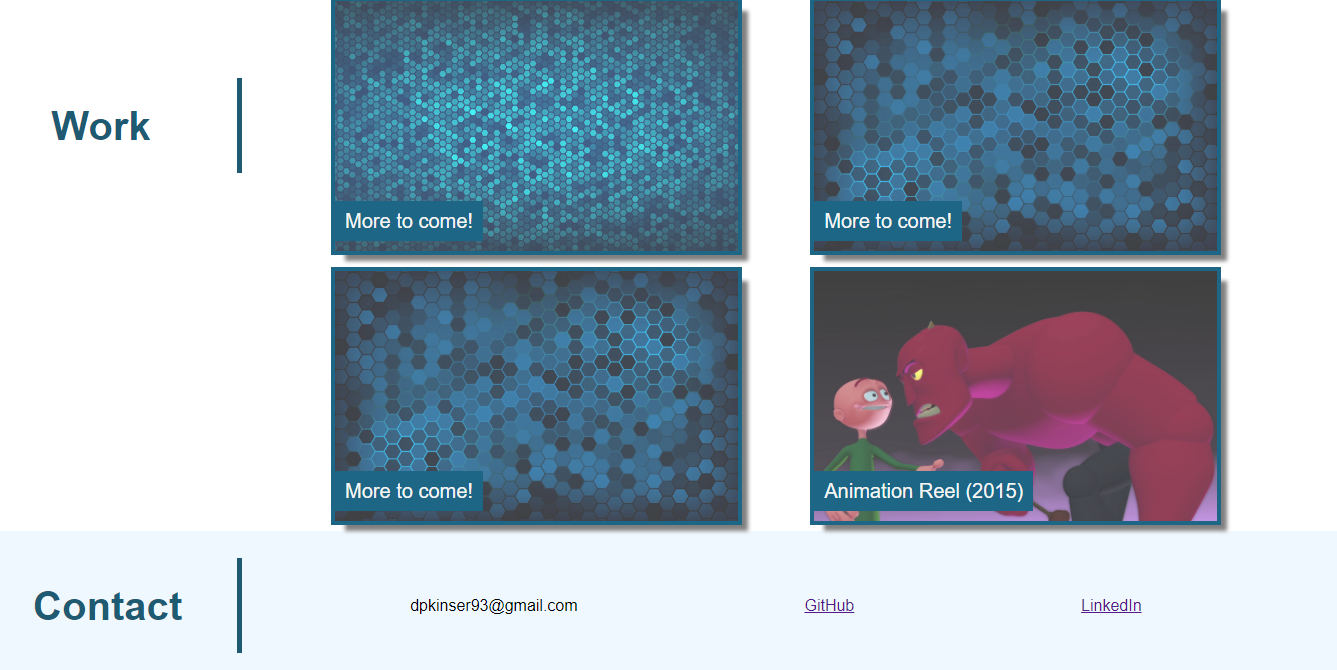
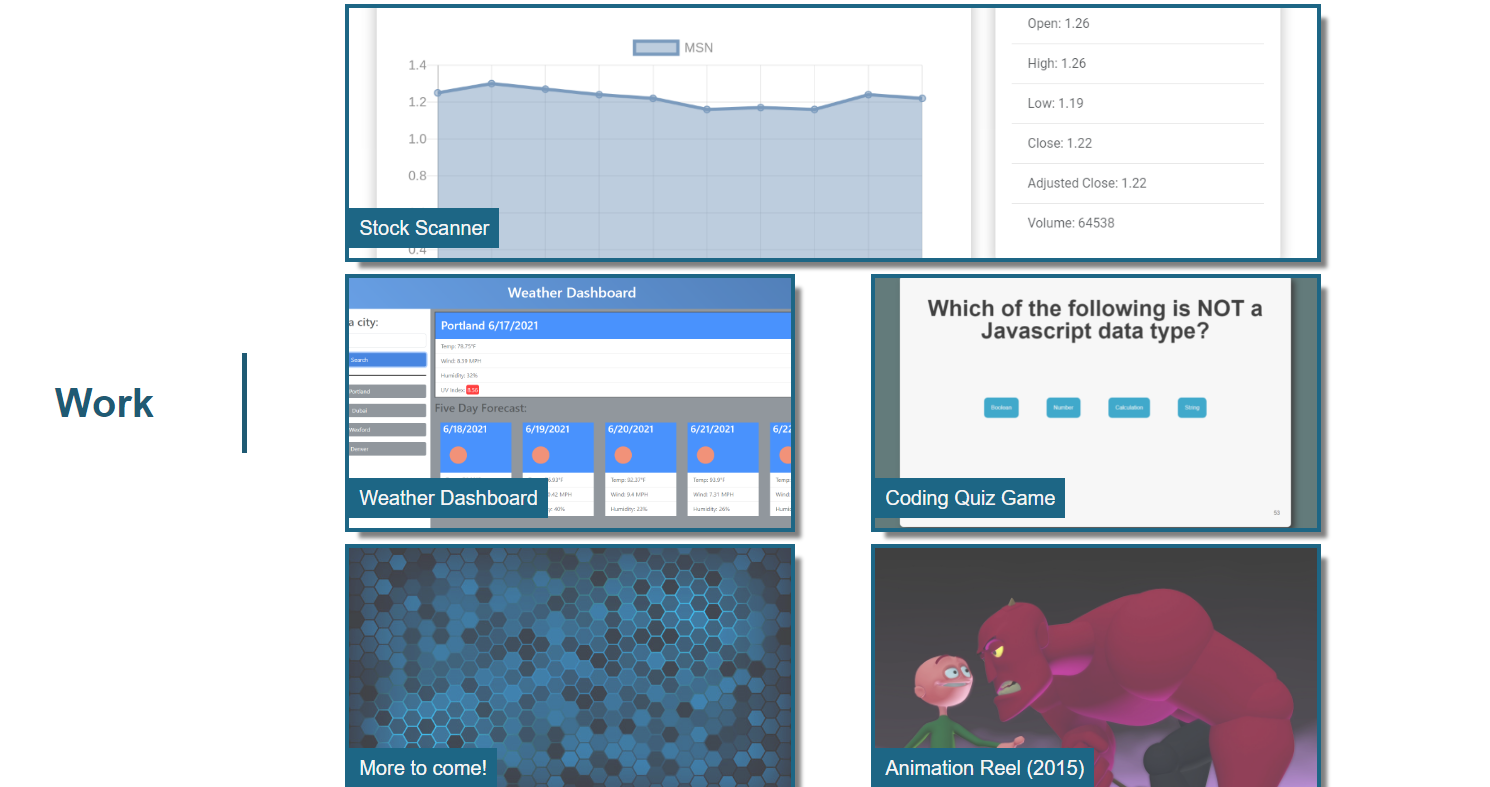
redesigned the work cards

diff --git a/index.html b/index.html
@@ -36,9 +36,7 @@
         </ul>
     </nav>
 
-    <div class="hero">
-        <p>Come on in!</p>
-    </div>
+    <div class="hero"></div>
 
     <main>
 
@@ -71,33 +69,77 @@
         <section class="category" id="work">
             <h2>Work</h2>
             <div class="details">
+                <!-- <div class="block" id="big-block">
+                    <a href="https://jefarth-rpg-database.herokuapp.com/" target="_blank" data-desc="RPG Database"></a>
+                    <img src="./assets/images/RPG_DB.jpg" alt="hexagons">
+                </div> -->
+
                 <div class="block" id="big-block">
-                    <a href="https://buneroskoviche.github.io/StockScanner/" target="_blank" data-desc="Stock Scanner"></a>
-                    <img src="./assets/images/StockScanner.PNG" alt="hexagons">
+                    <a class="block-link" href="https://jefarth-rpg-database.herokuapp.com/" target="_blank">
+                        <img src="./assets/images/RPG_DB.jpg" alt="rpg database screenshot">
+                    </a>
+                    <div class="block-details">
+                        <h3>RPG Database</h4>
+                        <a href="https://github.com/buneroskoviche/rpg-character-sheet" target="_blank">See the project on GitHub</a>
+                    </div>
                 </div>
+
                 <div class="block">
-                    <a href="https://buneroskoviche.github.io/WeatherDashboard/" target="_blank" data-desc="Weather Dashboard"></a>
-                    <img src="./assets/images/WeatherDashboard.PNG" alt="hexagons">
+                    <a class="block-link" href="https://buneroskoviche.github.io/StockScanner/" target="_blank">
+                        <img src="./assets/images/StockScanner.PNG" alt="stock scanner screenshot">
+                    </a>
+                    <div class="block-details">
+                        <h3>Stock Scanner</h4>
+                        <a href="https://github.com/buneroskoviche/StockScanner" target="_blank">See the project on GitHub</a>
+                    </div>
                 </div>
+
                 <div class="block">
-                    <a href="https://buneroskoviche.github.io/CodingQuizGame/" target="_blank" data-desc="Coding Quiz Game"></a>
-                    <img src="./assets/images/CodingQuiz.PNG" alt="hexagons">
+                    <a class="block-link" href="https://buneroskoviche.github.io/WeatherDashboard/" target="_blank">
+                        <img src="./assets/images/WeatherDashboard.PNG" alt="weather dashboard screenshot">
+                    </a>
+                    <div class="block-details">
+                        <h3>Weather Dashboard</h4>
+                        <a href="https://github.com/buneroskoviche/WeatherDashboard" target="_blank">See the project on GitHub</a>
+                    </div>
                 </div>
+
                 <div class="block">
-                    <a href="index.html" data-desc="More to come!"></a>
-                    <img src="./assets/images/hexagons2.jpg" alt="hexagons">
+                    <a class="block-link" href="https://tech-blog-dk.herokuapp.com/" target="_blank">
+                        <img src="./assets/images/TechBlog.PNG" alt="weather dashboard screenshot">
+                    </a>
+                    <div class="block-details">
+                        <h3>Tech Blog</h4>
+                        <a href="https://github.com/buneroskoviche/TechBlog" target="_blank">See the project on GitHub</a>
+                    </div>
                 </div>
+
                 <div class="block">
-                    <a href="https://dkanimation.com" target="_blank" data-desc="Animation Reel (2015)"></a>
-                    <img src="./assets/images/AnimReel2015.png" alt="hexagons">
+                    <a class="block-link" href="https://buneroskoviche.github.io/CodingQuizGame/" target="_blank">
+                        <img src="./assets/images/CodingQuiz.PNG" alt="coding quiz screenshot">
+                    </a>
+                    <div class="block-details">
+                        <h3>Coding Quiz</h4>
+                        <a href="https://github.com/buneroskoviche/CodingQuizGame" target="_blank">See the project on GitHub</a>
+                    </div>
                 </div>
+
+                <div class="block">
+                    <a class="block-link" href="https://dkanimation.com" target="_blank">
+                        <img src="./assets/images/AnimReel2015.png" alt="animation Reel screenshot">
+                    </a>
+                    <div class="block-details">
+                        <h3>Animation Reel (2015)</h4>
+                    </div>
+                </div>
+
             </div>
         </section>
         
         <section class="category" id="contact">
             <h2>Contact</h2>
             <ul class="details">
-                <li>dpkinser93@gmail.com</li>
+                <li>dkcoder93@gmail.com</li>
                 <li>
                     <a href="https://github.com/buneroskoviche" target="_blank">GitHub</a>
                 </li>

diff --git a/assets/css/style.css b/assets/css/style.css
@@ -127,49 +127,61 @@ section p {
 /* Create a work link block, space it, and set a position for the ::after */
 .block {
     position: relative;
-    height: 250px;
+    height: 350px;
     width: 42%;
     margin: 10px 10px;
-    outline: 4px solid var(--mainColor);
+    background-color: var(--mainColor);
     box-shadow: 10px 10px 4px 0px grey;
+    display: flex;
+    flex-direction: column;
+    padding: 1%;
+    border-radius: 3%;
 }
 
-/* Create a link box over a block */
-.block a {
-    display: inline-block;
-    position: absolute;
+/* Work link name */
+.block-details {
+    text-align: center;
+    display: flex;
+    flex-direction: column;
+    align-items: center;
+    justify-content: space-around;
+    height: inherit;
+    color: var(--secondaryColor);
+}
+
+/* Scale the titles of the works */
+h3 {
+    font-size: xx-large;
+}
+
+.block-details a {
+    text-decoration: none;
+    color: var(--secondaryColor);
+}
+
+.block-link {
     width: 100%;
+    min-height: 70%;
+    margin-bottom: 2%;
+}
+
+/* Formats the img of the work link to fit */
+.block-link img {
     height: 100%;
-    z-index: 1;
-    padding: 7.69em;
-}
-
-/* Format the image to fit the link box */
-.block img {
-    height: 250px;
     width: 100%;
-    opacity: 0.75;
-    z-index: -1;
     object-fit: cover;
+    border-radius: 3%;
+    filter: brightness(0.9);
 }
 
 /* Make the top block double wide */
 #big-block {
     width: 92%;
+    border-radius: 15px;
 }
 
-/* Create a text box over the link block */
-.block a::after {
-    content: attr(data-desc);
-    padding: 10px;
-    font-size: 20px;
-    text-align: left;
-    color: var(--secondaryColor);
-    text-decoration: none;
-    background-color: var(--mainColor);
-    position: absolute;
-    left: 0px;
-    bottom: 10px;
+#big-block .block-link img{
+    border-radius: 15px;
 }
 
 /* Make the footer flex so that we can center it */

diff --git a/assets/css/active.css b/assets/css/active.css
@@ -22,14 +22,13 @@ nav a:visited {
 }
 
 /* When you hover over a work link, make the image clear */
-.block:hover img {
-    opacity: 1;
+.block-link:hover img {
+    filter: brightness(1);
 }
 
-/* When you click a work link, push it down slightly*/
-.block:active {
-    margin: 10px 10px 7px 7px;
-    box-shadow: 5px 5px 4px 0px grey;
+/* When you hover over a github link, underline it*/
+.block-details a:hover {
+    text-decoration: underline;
 }
 
 /* Underline the text when hovering over footer link */
